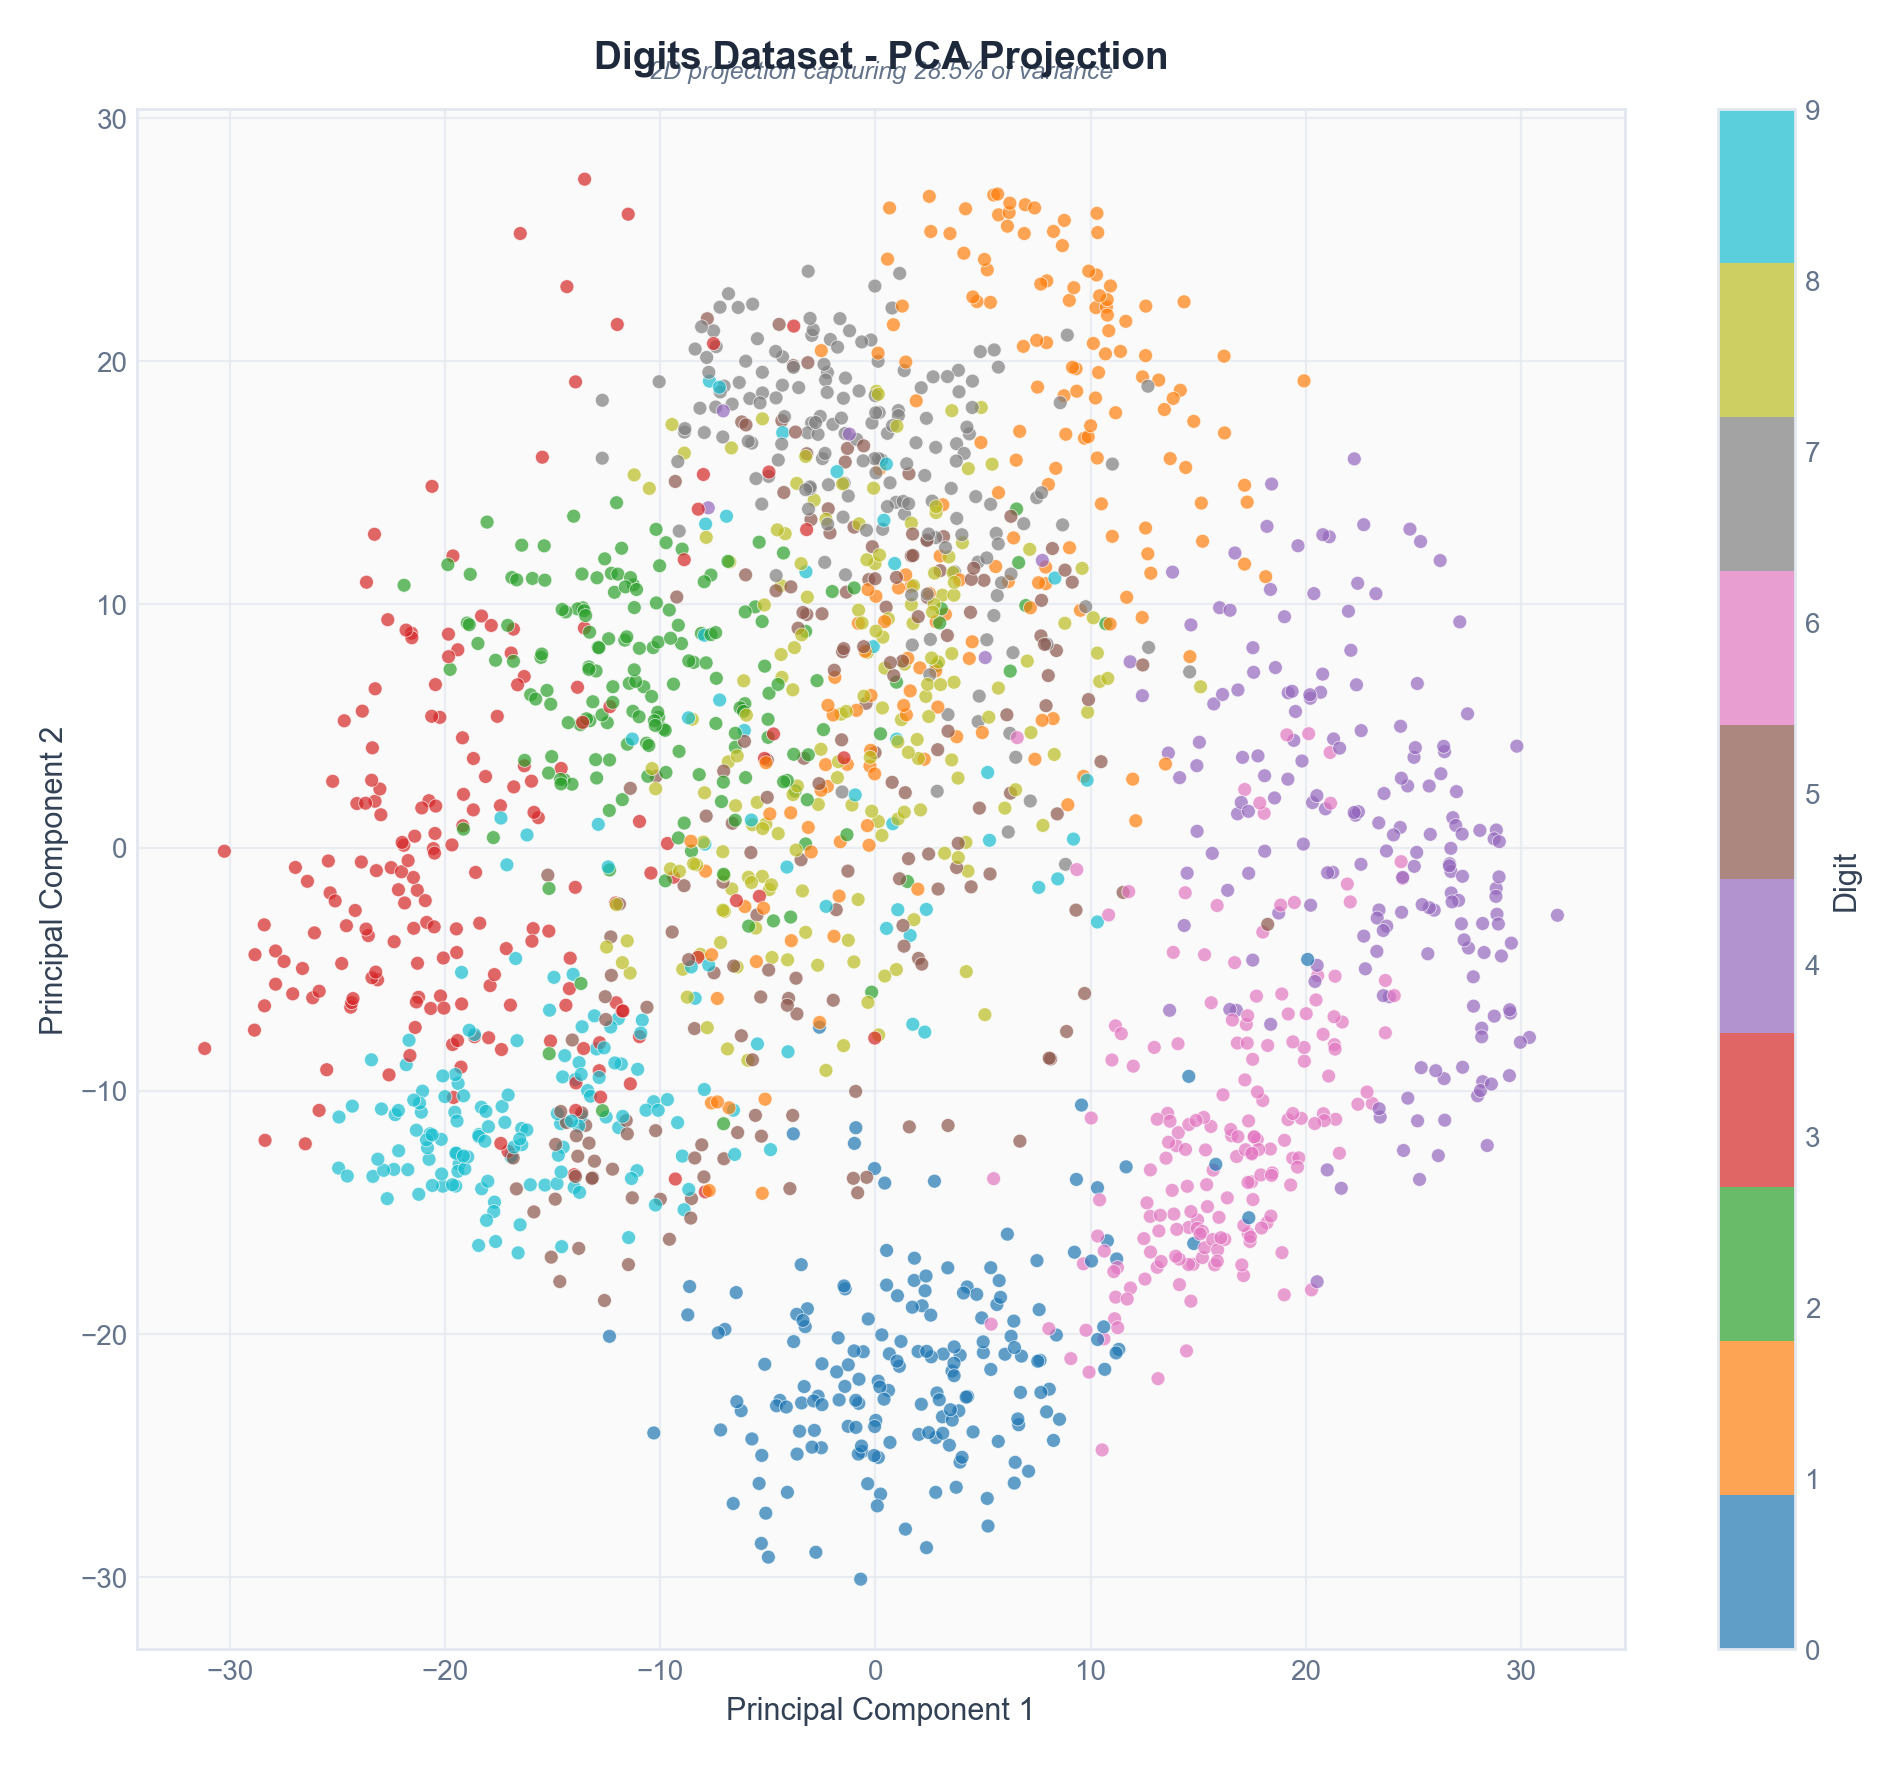
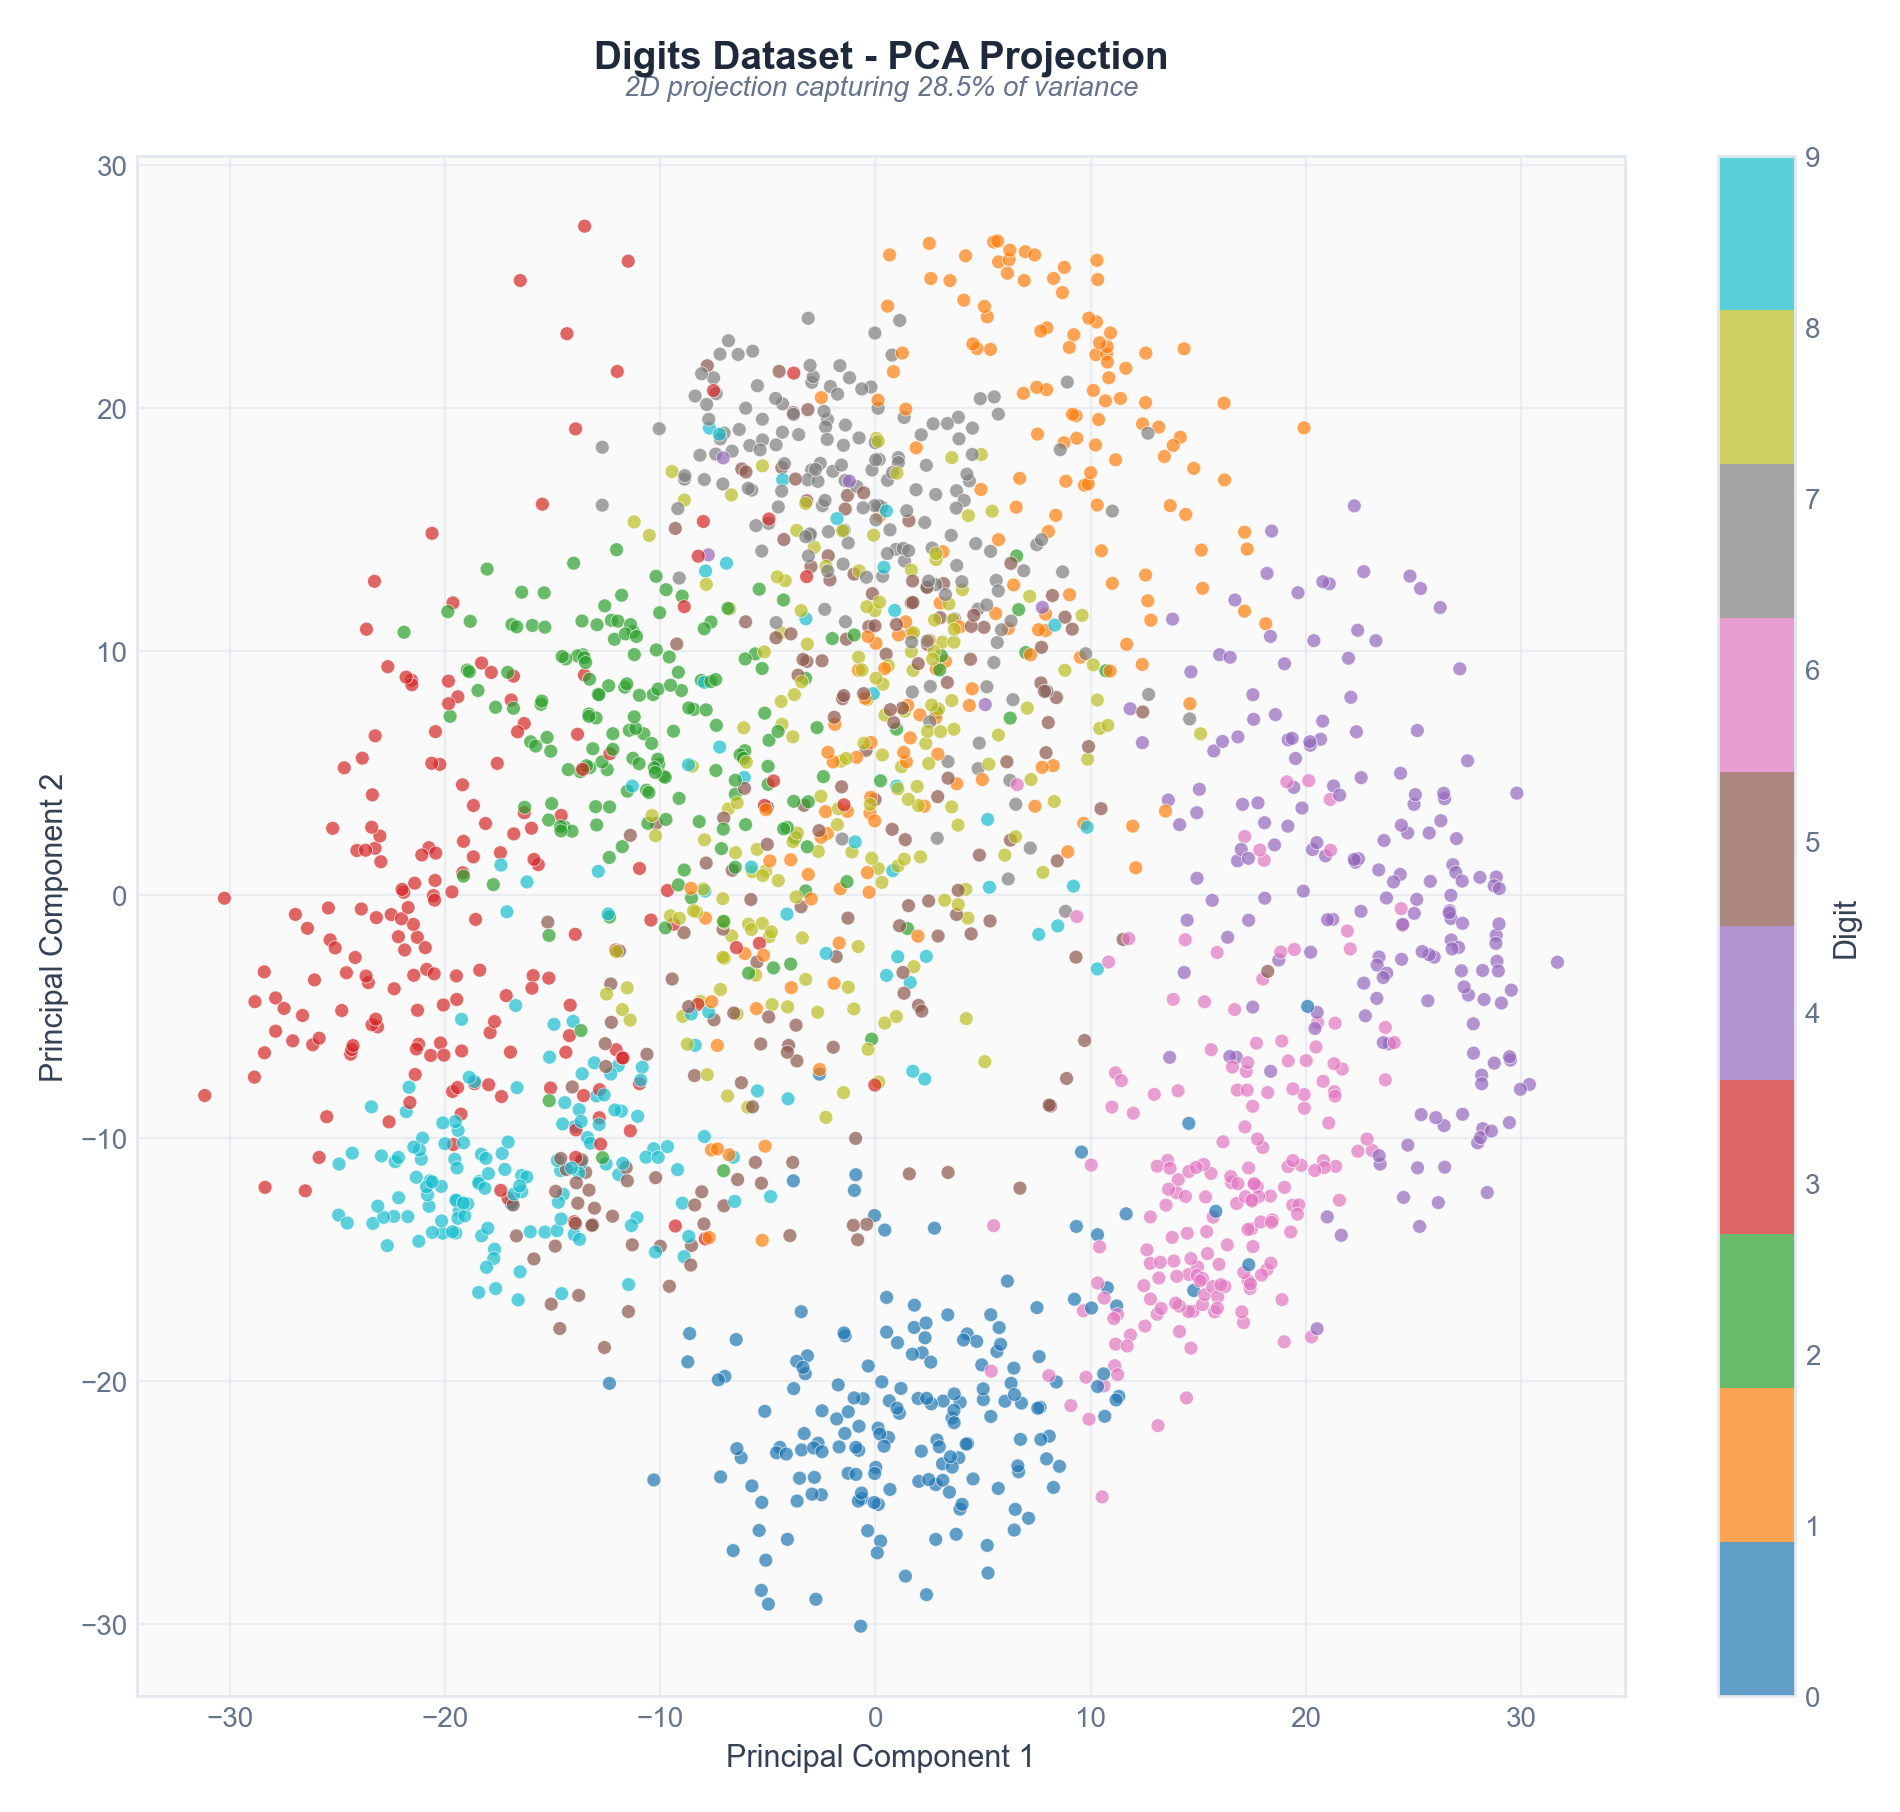
fix overlapping text in utils.py

diff --git a/utils.py b/utils.py
@@ -143,10 +143,10 @@ def fancy_scatter(ax, x, y, c=None, cmap='viridis', **kwargs):
 
 def add_title_box(ax, title, subtitle=None):
     """Add a styled title with optional subtitle"""
-    ax.set_title(title, fontsize=14, fontweight='bold', color=COLORS['dark'], pad=15)
+    ax.set_title(title, fontsize=14, fontweight='bold', color=COLORS['dark'], pad=32)
     if subtitle:
-        ax.text(0.5, 1.02, subtitle, transform=ax.transAxes, 
-                fontsize=9, color='#64748B', ha='center', style='italic')
+        ax.text(0.5, 1.04, subtitle, transform=ax.transAxes, 
+                fontsize=10, color='#64748B', ha='center', style='italic')
 
 def create_comparison_figure(ncols=2, nrows=1, figsize=None):
     """Create a nicely spaced comparison figure"""
